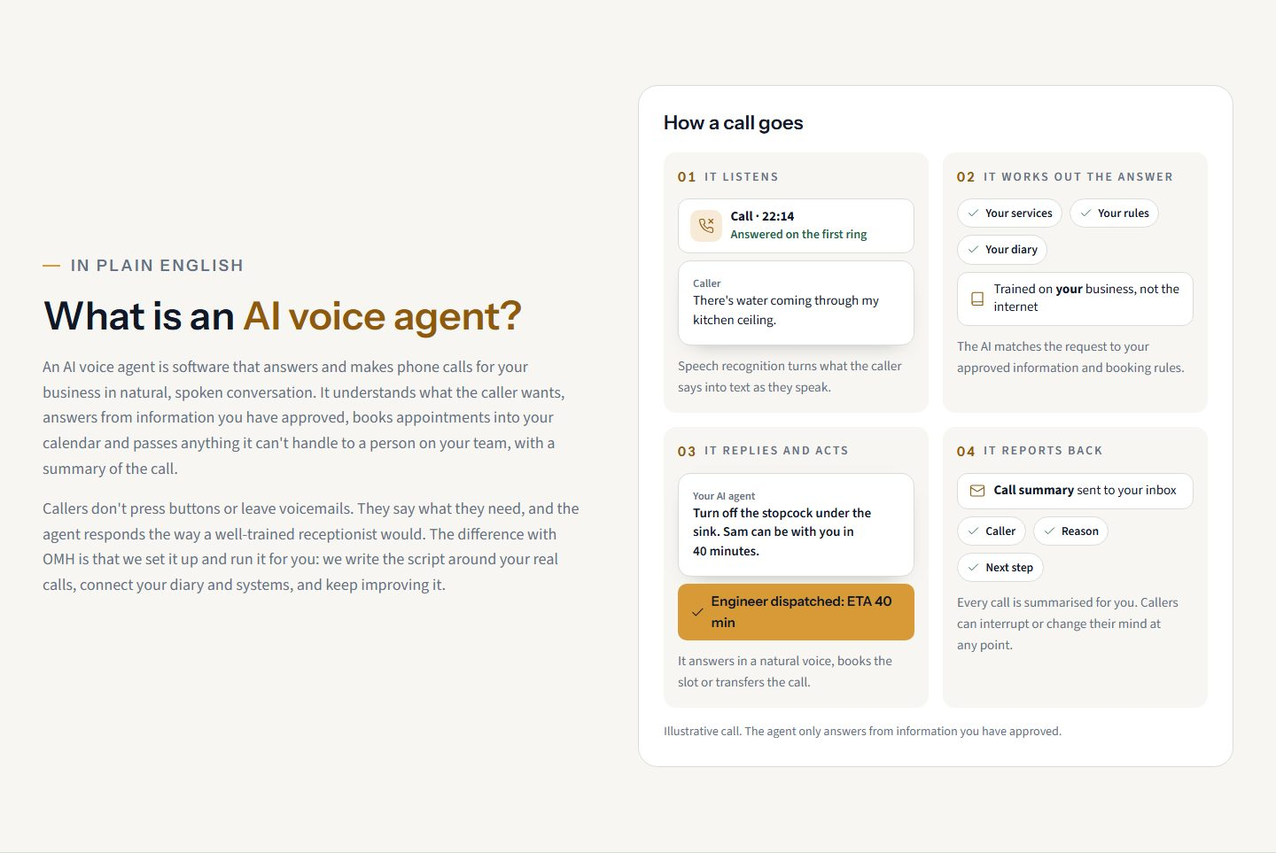
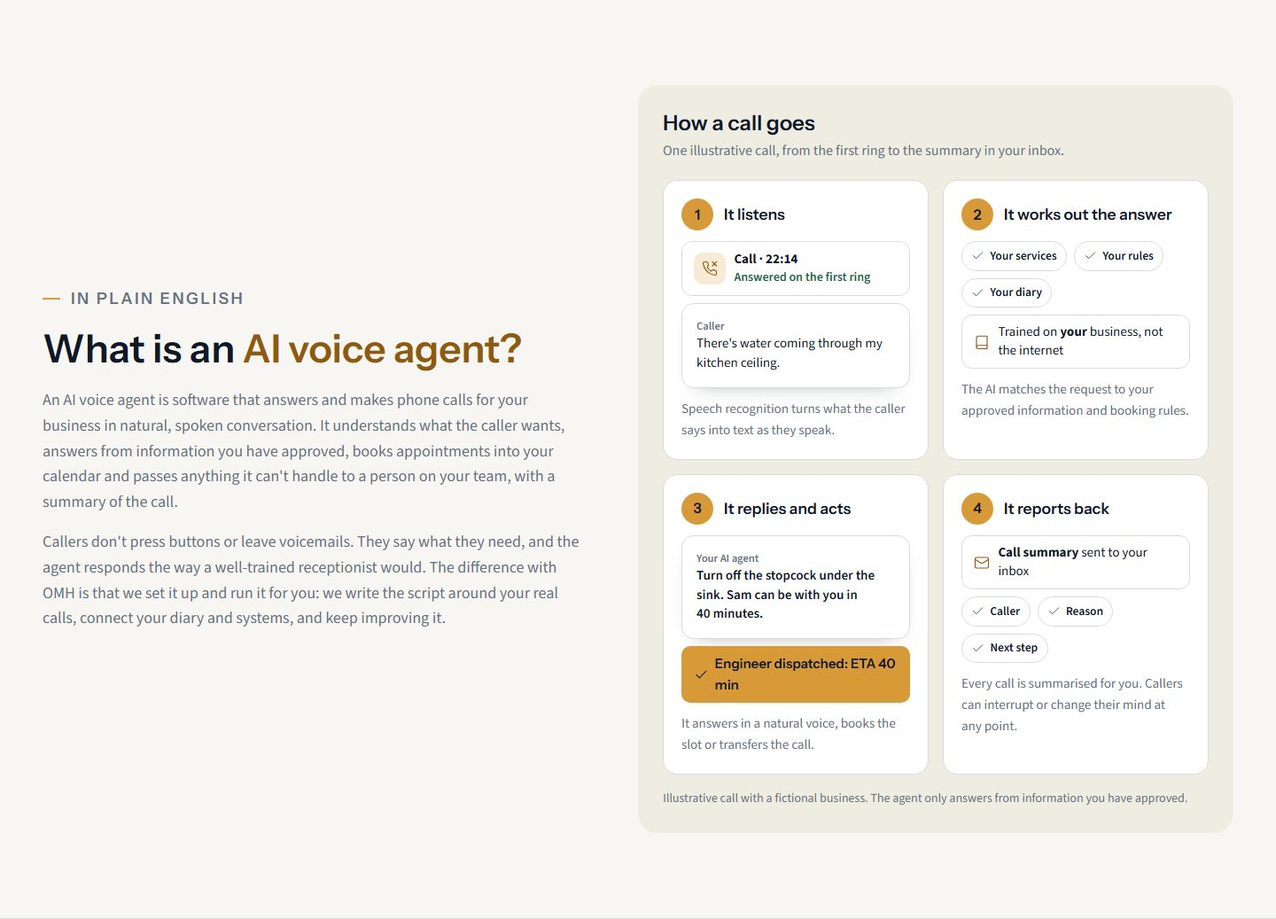
Restore the previous /ai-voice-agents hero and greeting band, tidy "What is"
The old hero (industry strip and video) leads again at the client's request,
with its buttons as "Book a 30-Minute Demo" and "Watch the demo". The
greeting-builder band is back after the capability cards. The "What is an
AI voice agent?" walkthrough uses numbered gold steps on a sand panel.

Changed region(s): [[0.5, 0.0935, 0.9688, 0.9034], [0.0312, 0.2804, 0.4375, 0.7165]]

diff --git a/lib/content/ai-voice-agents-markup.ts b/lib/content/ai-voice-agents-markup.ts
@@ -192,73 +192,6 @@ export const voiceAgentsMarkup = String.raw`
   <symbol id="i-timer" viewBox="0 0 24 24"><circle cx="12" cy="13" r="8"/><path d="M12 9v4l2.5 2M10 2h4"/></symbol>
 </svg>
 
-<section id="hero" data-component="Hero" class="relative overflow-hidden">
-  <div class="hero-glow" aria-hidden="true"></div>
-  <div class="container-omh relative grid items-center gap-10 pb-14 pt-10 lg:grid-cols-[minmax(0,1.1fr)_minmax(0,.9fr)] lg:gap-14 lg:pb-20 lg:pt-14" data-brand
-    data-brand-biz='[{"id":"law","label":"Law firm","name":"Hartwell Reeve Solicitors","city":"Birmingham","num":"0121 496 0147","agent":"Grace","kind":"firm&#39;s","initials":"HR","voice":"British English, calm and measured","never":"Gives legal advice","transfer":"Existing clients go to their named solicitor"},{"id":"dental","label":"Dental clinic","name":"Albion Square Dental","city":"Manchester","num":"0161 496 0123","agent":"Amy","kind":"practice&#39;s","initials":"AS","voice":"British English, warm and friendly","never":"Gives clinical advice","transfer":"Dental emergencies go to the on-call line"},{"id":"plumber","label":"Plumber","name":"Severn Plumbing","city":"Bristol","num":"0117 496 0135","agent":"Sam","kind":"team&#39;s","initials":"SP","voice":"British English, relaxed","never":"Quotes a price it has not been given","transfer":"Burst pipes go straight to the plumber on call"}]'>
-    <div>
-      <p class="eyebrow"><span class="eyebrow-mark" aria-hidden="true"><i></i><i></i><i></i></span>AI voice agents · 24/7</p>
-      <h1 class="!text-[clamp(2.375rem,1.81rem+2.43vw,3.75rem)] !leading-[1.06]">AI Voice Agent for UK Businesses: <span class="hl">Answer Every Call, Even at 2am</span></h1>
-      <p class="mt-5 text-muted">Our AI voice agent answers on the first ring, qualifies the caller and books them into your calendar, day or night. We build it around your business, test it with you and manage it every month, so you never have to learn the software.</p>
-      <div class="mt-7 flex flex-col gap-3 sm:flex-row sm:items-center">
-        ${primaryCta("hero_book_demo", "w-full sm:w-auto")}
-        <a href="#what-is" class="text-link justify-center" data-track="hero_see_how">See how a call goes${icon("arrow-down")}</a>
-      </div>
-      <p class="mt-5 text-[16px] text-muted">Live in as little as 3 working days · Keep your number · Billed monthly, 30 days' notice</p>
-    </div>
-
-    <div class="mx-auto w-full max-w-[400px]">
-      <div class="brand-phone relative rounded-[44px] border border-ink/10 bg-[#0b0f19] p-3 shadow-[0_50px_100px_-40px_rgb(0_0_0/0.6)]">
-        <div class="relative overflow-hidden rounded-[34px] bg-[#f7f6f2] px-5 pb-6 pt-4 text-[#101828]">
-          <div class="flex items-center justify-between text-[13px] font-semibold" aria-hidden="true"><span class="tnum">9:41</span><span class="h-[22px] w-[90px] rounded-full bg-[#0b0f19]"></span><span class="flex gap-1"><i class="block h-2.5 w-1 rounded-sm bg-[#101828]"></i><i class="block h-2.5 w-1 rounded-sm bg-[#101828]"></i><i class="block h-2.5 w-1 rounded-sm bg-[#101828]/40"></i></span></div>
-          <div class="mt-5 text-center">
-            <p class="text-[13.5px] font-semibold text-[#1c6446]"><span class="mr-1.5 inline-block h-2 w-2 rounded-full bg-[#1c6446] align-middle"></span>Call answered <span class="tnum" data-brand-timer>00:03</span></p>
-            <span class="mx-auto mt-3 grid h-[64px] w-[64px] place-items-center rounded-full bg-[#d79a37] font-display text-[22px] font-semibold text-[#101828]" aria-hidden="true" data-brand-initials>HR</span>
-            <p class="mt-3 font-display text-[20px] font-semibold leading-tight" data-brand-name>Hartwell Reeve Solicitors</p>
-            <p class="mt-0.5 text-[14.5px] text-[rgb(16_24_40/0.68)]"><span class="tnum" data-brand-num>0121 496 0147</span>, <span data-brand-city>Birmingham</span></p>
-          </div>
-          <div class="mt-4 rounded-[18px] bg-white p-4 shadow-[0_10px_30px_-20px_rgb(16_24_40/0.6)]">
-            <div class="flex items-center gap-3">
-              <span class="text-[13px] font-semibold text-[#8f5a0e]"><span data-brand-agent>Grace</span>, AI assistant</span>
-              <svg viewBox="0 0 168 40" class="brand-wave h-7 flex-1" aria-hidden="true" data-brand-wave>
-                <rect x="1" y="13" width="3" height="14" rx="1.5" style="--d:0s"/><rect x="7" y="3" width="3" height="34" rx="1.5" style="--d:0.09s"/><rect x="13" y="15.5" width="3" height="9" rx="1.5" style="--d:0.18s"/><rect x="19" y="6" width="3" height="28" rx="1.5" style="--d:0.27s"/><rect x="25" y="14.5" width="3" height="11" rx="1.5" style="--d:0.36s"/><rect x="31" y="12" width="3" height="16" rx="1.5" style="--d:0.45s"/><rect x="37" y="5.5" width="3" height="29" rx="1.5" style="--d:0.54s"/><rect x="43" y="8" width="3" height="24" rx="1.5" style="--d:0s"/><rect x="49" y="7" width="3" height="26" rx="1.5" style="--d:0.09s"/><rect x="55" y="10" width="3" height="20" rx="1.5" style="--d:0.18s"/><rect x="61" y="10.5" width="3" height="19" rx="1.5" style="--d:0.27s"/><rect x="67" y="15" width="3" height="10" rx="1.5" style="--d:0.36s"/><rect x="73" y="3.5" width="3" height="33" rx="1.5" style="--d:0.45s"/><rect x="79" y="16" width="3" height="8" rx="1.5" style="--d:0.54s"/><rect x="85" y="4" width="3" height="32" rx="1.5" style="--d:0s"/><rect x="91" y="16.5" width="3" height="7" rx="1.5" style="--d:0.09s"/><rect x="97" y="11.5" width="3" height="17" rx="1.5" style="--d:0.18s"/><rect x="103" y="7.5" width="3" height="25" rx="1.5" style="--d:0.27s"/><rect x="109" y="8" width="3" height="24" rx="1.5" style="--d:0.36s"/><rect x="115" y="7" width="3" height="26" rx="1.5" style="--d:0.45s"/><rect x="121" y="8" width="3" height="24" rx="1.5" style="--d:0.54s"/><rect x="127" y="11" width="3" height="18" rx="1.5" style="--d:0s"/><rect x="133" y="17" width="3" height="6" rx="1.5" style="--d:0.09s"/><rect x="139" y="5" width="3" height="30" rx="1.5" style="--d:0.18s"/><rect x="145" y="16.5" width="3" height="7" rx="1.5" style="--d:0.27s"/><rect x="151" y="3" width="3" height="34" rx="1.5" style="--d:0.36s"/><rect x="157" y="15.5" width="3" height="9" rx="1.5" style="--d:0.45s"/><rect x="163" y="10" width="3" height="20" rx="1.5" style="--d:0.54s"/>
-              </svg>
-            </div>
-            <p class="mt-3 min-h-[96px] rounded-[4px_14px_14px_14px] bg-[#efece2] px-3.5 py-3 text-[15.5px] leading-[1.45]" aria-hidden="true">&ldquo;<span data-brand-greeting>Good morning, Hartwell Reeve Solicitors. I'm Grace, the firm's AI assistant. How can I help you today?</span><span class="brand-caret" data-brand-caret></span>&rdquo;</p>
-            <p class="sr-only" aria-live="polite" data-brand-live></p>
-          </div>
-          <dl class="mt-3 space-y-1.5 text-[13.5px] leading-snug">
-            <div class="flex gap-2 rounded-[10px] bg-white/70 px-3 py-2"><dt class="font-semibold">Voice:</dt><dd data-brand-voice>British English, calm and measured</dd></div>
-            <div class="flex gap-2 rounded-[10px] bg-white/70 px-3 py-2"><dt class="font-semibold">Never:</dt><dd data-brand-never>Gives legal advice</dd></div>
-            <div class="flex gap-2 rounded-[10px] bg-white/70 px-3 py-2"><dt class="font-semibold">Transfers:</dt><dd data-brand-transfer>Existing clients go to their named solicitor</dd></div>
-          </dl>
-          <div class="mt-4 flex items-center justify-center gap-6">
-            <button type="button" class="grid h-12 w-12 place-items-center rounded-full bg-[#101828] text-[#f7f6f2] hover:bg-[#1a2437]" data-brand-replay data-track="branding_replay" aria-label="Replay the greeting">${icon("replay")}</button>
-            <span class="grid h-12 w-12 place-items-center rounded-full bg-[#a3352b] text-white" aria-hidden="true">${icon("phone", "rotate-[135deg]")}</span>
-          </div>
-        </div>
-      </div>
-      <div class="mt-5">
-        <p class="text-[15px] font-semibold">Try it: pick a business and a tone to hear the greeting change.</p>
-        <div class="mt-2 flex flex-wrap items-center gap-2">
-          <div role="radiogroup" aria-label="Business" class="flex flex-wrap gap-2" data-brand-group="biz">
-            <button type="button" role="radio" aria-checked="true" tabindex="0" class="brand-chip" data-brand-opt="law" data-track="branding_biz" data-track-name="Law firm">Law firm</button>
-            <button type="button" role="radio" aria-checked="false" tabindex="-1" class="brand-chip" data-brand-opt="dental" data-track="branding_biz" data-track-name="Dental clinic">Dental clinic</button>
-            <button type="button" role="radio" aria-checked="false" tabindex="-1" class="brand-chip" data-brand-opt="plumber" data-track="branding_biz" data-track-name="Plumber">Plumber</button>
-          </div>
-          <span class="hidden h-6 w-px bg-line sm:block" aria-hidden="true"></span>
-          <div role="radiogroup" aria-label="Tone" class="flex flex-wrap gap-2" data-brand-group="tone">
-            <button type="button" role="radio" aria-checked="true" tabindex="0" class="brand-chip" data-brand-opt="warm" data-track="branding_tone" data-track-name="Warm">Warm</button>
-            <button type="button" role="radio" aria-checked="false" tabindex="-1" class="brand-chip" data-brand-opt="brisk" data-track="branding_tone" data-track-name="Brisk">Brisk</button>
-            <button type="button" role="radio" aria-checked="false" tabindex="-1" class="brand-chip" data-brand-opt="formal" data-track="branding_tone" data-track-name="Formal">Formal</button>
-          </div>
-        </div>
-        <p class="mt-2 text-[14px] text-muted">Illustrative example. The businesses shown are fictional.</p>
-      </div>
-    </div>
-  </div>
-</section>
-
 <section id="why" data-component="Problem" class="border-y border-line bg-surface">
   <div class="container-omh py-14 lg:py-20">
     <p class="eyebrow"><span class="eyebrow-mark" aria-hidden="true"><i></i><i></i><i></i></span>Why it matters</p>
@@ -294,27 +227,28 @@ export const voiceAgentsMarkup = String.raw`
       <p class="mt-5 text-muted">An AI voice agent is software that answers and makes phone calls for your business in natural, spoken conversation. It understands what the caller wants, answers from information you have approved, books appointments into your calendar and passes anything it can't handle to a person on your team, with a summary of the call.</p>
       <p class="mt-4 text-muted">Callers don't press buttons or leave voicemails. They say what they need, and the agent responds the way a well-trained receptionist would. The difference with OMH is that we set it up and run it for you: we write the script around your real calls, connect your diary and systems, and keep improving it.</p>
     </div>
-    <div class="rounded-[22px] border border-line bg-surface p-5 sm:p-7">
-      <h3 class="!text-[22px]">How a call goes</h3>
+    <div class="rounded-[22px] bg-sand p-5 sm:p-7">
+      <h3 class="!text-[24px]">How a call goes</h3>
+      <p class="mt-1 text-[16px] text-muted">One illustrative call, from the first ring to the summary in your inbox.</p>
       <ol class="mt-5 grid gap-4 sm:grid-cols-2">
-        <li class="rounded-[14px] bg-paper p-4"><p class="flex items-center gap-2 text-[14px] font-semibold uppercase tracking-[0.14em] text-muted"><span class="num text-[15px]">01</span>It listens</p>
+        <li class="flex flex-col rounded-[16px] border border-line bg-surface p-5"><p class="flex items-center gap-3 font-display text-[17.5px] font-semibold"><span class="grid h-9 w-9 shrink-0 place-items-center rounded-full bg-gold text-[16px] text-navy" aria-hidden="true">1</span>It listens</p>
           <div class="mini mt-3"><span class="icon-tile">${icon("phone-missed")}</span><span class="min-w-0"><b class="block">Call · 22:14</b><span class="text-[14px] font-semibold text-ok">Answered on the first ring</span></span></div>
           <div class="chat mt-2"><p><span class="who">Caller</span>There's water coming through my kitchen ceiling.</p></div>
           <p class="mt-3 text-[15px] text-muted">Speech recognition turns what the caller says into text as they speak.</p></li>
-        <li class="rounded-[14px] bg-paper p-4"><p class="flex items-center gap-2 text-[14px] font-semibold uppercase tracking-[0.14em] text-muted"><span class="num text-[15px]">02</span>It works out the answer</p>
+        <li class="flex flex-col rounded-[16px] border border-line bg-surface p-5"><p class="flex items-center gap-3 font-display text-[17.5px] font-semibold"><span class="grid h-9 w-9 shrink-0 place-items-center rounded-full bg-gold text-[16px] text-navy" aria-hidden="true">2</span>It works out the answer</p>
           <div class="mt-3 flex flex-wrap gap-2"><span class="mini-chip">${icon("check", "text-ok")}Your services</span><span class="mini-chip">${icon("check", "text-ok")}Your rules</span><span class="mini-chip">${icon("check", "text-ok")}Your diary</span></div>
           <div class="mini mt-2">${icon("book", "text-hl")}<span>Trained on <b>your</b> business, not the internet</span></div>
           <p class="mt-3 text-[15px] text-muted">The AI matches the request to your approved information and booking rules.</p></li>
-        <li class="rounded-[14px] bg-paper p-4"><p class="flex items-center gap-2 text-[14px] font-semibold uppercase tracking-[0.14em] text-muted"><span class="num text-[15px]">03</span>It replies and acts</p>
+        <li class="flex flex-col rounded-[16px] border border-line bg-surface p-5"><p class="flex items-center gap-3 font-display text-[17.5px] font-semibold"><span class="grid h-9 w-9 shrink-0 place-items-center rounded-full bg-gold text-[16px] text-navy" aria-hidden="true">3</span>It replies and acts</p>
           <div class="chat mt-3"><p class="ai"><span class="who">Your AI agent</span>Turn off the stopcock under the sink. Sam can be with you in 40 minutes.</p></div>
           <span class="booked mt-2">${icon("check")}Engineer dispatched: ETA 40 min</span>
           <p class="mt-3 text-[15px] text-muted">It answers in a natural voice, books the slot or transfers the call.</p></li>
-        <li class="rounded-[14px] bg-paper p-4"><p class="flex items-center gap-2 text-[14px] font-semibold uppercase tracking-[0.14em] text-muted"><span class="num text-[15px]">04</span>It reports back</p>
+        <li class="flex flex-col rounded-[16px] border border-line bg-surface p-5"><p class="flex items-center gap-3 font-display text-[17.5px] font-semibold"><span class="grid h-9 w-9 shrink-0 place-items-center rounded-full bg-gold text-[16px] text-navy" aria-hidden="true">4</span>It reports back</p>
           <div class="mini mt-3">${icon("mail", "text-hl")}<span><b>Call summary</b> sent to your inbox</span></div>
           <div class="mt-2 flex flex-wrap gap-2"><span class="mini-chip">${icon("check", "text-ok")}Caller</span><span class="mini-chip">${icon("check", "text-ok")}Reason</span><span class="mini-chip">${icon("check", "text-ok")}Next step</span></div>
           <p class="mt-3 text-[15px] text-muted">Every call is summarised for you. Callers can interrupt or change their mind at any point.</p></li>
       </ol>
-      <p class="mt-4 text-[14px] text-muted">Illustrative call. The agent only answers from information you have approved.</p>
+      <p class="mt-4 text-[14px] text-muted">Illustrative call with a fictional business. The agent only answers from information you have approved.</p>
     </div>
   </div>
 </section>

diff --git a/lib/content/ai-voice-agents-landing-v4.ts b/lib/content/ai-voice-agents-landing-v4.ts
@@ -1,6 +1,7 @@
+// FROZEN BACKUP (oldv2, 20 Oct 2026). Do not edit. Snapshot of /ai-voice-agents before the CRO rebuild; also tagged `oldv2` in git.
 // Generated by scripts/port-landing-v4.mjs from ai-voice-agents-v4-landing-page.html, then edited by hand for the
 // SEO brief (19 Oct 2026). Don't regenerate it: the port script would undo the brief's copy.
-// Only the "How it works" and "Local cover" sections remain (20 Oct 2026): app/ai-voice-agents/page.tsx places them
+// The hero, "How it works" and "Local cover" sections (20 Oct 2026): app/ai-voice-agents/page.tsx places them
 // between the rebuilt sections. Styles in landing-v4.css (.v4l).
 export const landingV4Markup = String.raw`
 <svg width="0" height="0" style="position:absolute" aria-hidden="true" focusable="false">
@@ -49,6 +50,112 @@ export const landingV4Markup = String.raw`
     <symbol id="v4-i-book" viewBox="0 0 24 24"><path d="M4 19.5A2.5 2.5 0 0 1 6.5 17H20V3H6.5A2.5 2.5 0 0 0 4 5.5z"/><path d="M4 19.5A2.5 2.5 0 0 0 6.5 22H20v-5"/></symbol>
   </defs>
 </svg>
+
+<section id="top" class="hero4" aria-labelledby="hero-title">
+  <div class="container-omh pt-12 text-center md:pt-16 lg:pt-20">
+    <span class="badge"><span class="voice-mark" aria-hidden="true"><i></i><i></i><i></i></span>AI voice agents · 24/7</span>
+    <h1 class="h1-c mx-auto mt-6" id="hero-title">AI Voice Agent for UK Businesses: <span class="hl">Answer Every Call, Even at 2am</span></h1>
+    <p class="lead mx-auto mt-6">Our AI voice agent answers on the first ring, qualifies the caller and books them into your calendar, day or night. We build it around your business, test it with you and manage it every month, so you never have to learn the software.</p>
+    <div class="mt-8 flex flex-col items-center justify-center gap-3 sm:flex-row" id="hero-form">
+      <a href="#book-demo-form" class="btn btn-primary w-full sm:w-auto" data-track="hero_book_demo">Book a 30-Minute Demo</a>
+      <a href="#hero-video" class="btn btn-secondary w-full sm:w-auto" data-track="hero_watch_demo">Watch the demo</a>
+    </div>
+    <p class="t-small mt-4 text-muted">Live in as little as 3 working days · Keep your number · Billed monthly, 30 days' notice</p>
+  </div>
+
+  <!-- Industry strip: loops slowly, pauses on hover or focus. Each tile jumps to its use-case card. -->
+  <div class="mt-12 md:mt-14" id="industries-strip">
+    <div class="container-omh flex items-center justify-center gap-3">
+      <p class="t-small font-display font-semibold text-muted" id="strip-title">Built for businesses that live on the phone</p>
+      <button type="button" class="mq-pause" data-marquee-toggle="strip" data-what="industry list" aria-pressed="false" aria-label="Pause the moving industry list"><svg class="icon icon-fill i-pause size-3.5" aria-hidden="true"><use href="#v4-i-pause"/></svg><svg class="icon icon-fill i-play size-3.5" aria-hidden="true"><use href="#v4-i-play"/></svg></button>
+    </div>
+    <div class="mx-auto mt-4 max-w-[1440px]">
+      <div class="marquee" id="strip" data-marquee style="--dur: 38s">
+        <div class="marquee-track">
+          <ul aria-labelledby="strip-title">
+          <li><a class="ind" href="#uc-estate" data-ind="estate"><span class="ind-ico" aria-hidden="true"><svg class="icon"><use href="#v4-i-home"/></svg></span><b>Estate &amp; Letting</b><small>Agents</small></a></li>
+          <li><a class="ind" href="#uc-dental" data-ind="dental"><span class="ind-ico" aria-hidden="true"><svg class="icon"><use href="#v4-i-tooth"/></svg></span><b>Dental</b><small>Clinics</small></a></li>
+          <li><a class="ind" href="#uc-clinics" data-ind="clinics"><span class="ind-ico" aria-hidden="true"><svg class="icon"><use href="#v4-i-medical"/></svg></span><b>Clinics &amp;</b><small>Healthcare</small></a></li>
+          <li><a class="ind" href="#uc-plumbers" data-ind="plumbers"><span class="ind-ico" aria-hidden="true"><svg class="icon"><use href="#v4-i-drop"/></svg></span><b>Plumbers</b><small>&nbsp;</small></a></li>
+          <li><a class="ind" href="#uc-hvac" data-ind="hvac"><span class="ind-ico" aria-hidden="true"><svg class="icon"><use href="#v4-i-flame"/></svg></span><b>Heating</b><small>&amp; HVAC</small></a></li>
+          <li><a class="ind" href="#uc-builders" data-ind="builders"><span class="ind-ico" aria-hidden="true"><svg class="icon"><use href="#v4-i-hardhat"/></svg></span><b>Contractors</b><small>&amp; Builders</small></a></li>
+          <li><a class="ind" href="#uc-law" data-ind="law"><span class="ind-ico" aria-hidden="true"><svg class="icon"><use href="#v4-i-scale"/></svg></span><b>Law</b><small>Firms</small></a></li>
+          <li><a class="ind" href="#uc-cars" data-ind="cars"><span class="ind-ico" aria-hidden="true"><svg class="icon"><use href="#v4-i-car"/></svg></span><b>Car</b><small>Dealerships</small></a></li>
+          </ul>
+        </div>
+      </div>
+    </div>
+  </div>
+
+  <div class="container-omh pb-16 pt-10 md:pt-12 lg:pb-24">
+    <div class="hero-video" id="hero-video">
+      <div class="video-frame" data-video data-youtube-id="M7lc1UVf-VE" data-video-title="AI voice agent answering a call and booking a property viewing">
+        <a class="video-poster on-band has-scene" href="https://www.youtube.com/watch?v=M7lc1UVf-VE" target="_blank" rel="noopener" data-video-play aria-label="Play video: AI voice agent answering a call and booking a property viewing (1:32)">
+          <svg class="vp-scene" viewBox="0 0 1600 900" preserveAspectRatio="xMidYMid slice" aria-hidden="true" focusable="false">
+            <defs>
+              <linearGradient id="vs-sky" x1="0" y1="0" x2="0" y2="1">
+                <stop offset="0" stop-color="#0b1426"/><stop offset=".5" stop-color="#1b2540"/><stop offset=".78" stop-color="#46384a"/><stop offset="1" stop-color="#b9763f"/>
+              </linearGradient>
+              <linearGradient id="vs-win" x1="0" y1="0" x2="0" y2="1"><stop offset="0" stop-color="#ffe2a6"/><stop offset="1" stop-color="#e9a54e"/></linearGradient>
+              <radialGradient id="vs-spill" cx=".5" cy=".5" r=".5"><stop offset="0" stop-color="#f1b866" stop-opacity=".55"/><stop offset="1" stop-color="#f1b866" stop-opacity="0"/></radialGradient>
+              <radialGradient id="vs-moon" cx=".5" cy=".5" r=".5"><stop offset=".3" stop-color="#f6e7c8" stop-opacity=".35"/><stop offset="1" stop-color="#f6e7c8" stop-opacity="0"/></radialGradient>
+              <filter id="vs-glow" x="-30%" y="-30%" width="160%" height="160%"><feGaussianBlur stdDeviation="14"/></filter>
+            </defs>
+            <rect width="1600" height="720" fill="url(#vs-sky)"/>
+            <g fill="#fff"><circle cx="946" cy="301" r="1.8" opacity="0.5"/><circle cx="1060" cy="315" r="1" opacity="0.35"/><circle cx="1068" cy="258" r="1" opacity="0.35"/><circle cx="934" cy="170" r="1" opacity="0.35"/><circle cx="1123" cy="36" r="1.8" opacity="0.5"/><circle cx="1359" cy="330" r="1" opacity="0.7"/><circle cx="50" cy="285" r="1" opacity="0.35"/><circle cx="93" cy="112" r="1" opacity="0.7"/><circle cx="81" cy="252" r="1.4" opacity="0.5"/><circle cx="1230" cy="115" r="1" opacity="0.7"/><circle cx="622" cy="270" r="1" opacity="0.7"/><circle cx="194" cy="249" r="1.4" opacity="0.5"/><circle cx="1148" cy="57" r="1.4" opacity="0.5"/><circle cx="1572" cy="132" r="1.4" opacity="0.35"/><circle cx="163" cy="303" r="1" opacity="0.5"/><circle cx="240" cy="163" r="1.8" opacity="0.35"/><circle cx="54" cy="15" r="1" opacity="0.35"/><circle cx="127" cy="255" r="1.8" opacity="0.7"/><circle cx="833" cy="229" r="1" opacity="0.7"/><circle cx="1309" cy="116" r="1.4" opacity="0.5"/><circle cx="198" cy="174" r="1.4" opacity="0.35"/><circle cx="859" cy="75" r="1" opacity="0.35"/><circle cx="1467" cy="66" r="1" opacity="0.35"/><circle cx="972" cy="264" r="1" opacity="0.7"/><circle cx="1165" cy="111" r="1.8" opacity="0.7"/><circle cx="410" cy="82" r="1.8" opacity="0.7"/><circle cx="805" cy="74" r="1.8" opacity="0.5"/><circle cx="455" cy="15" r="1.4" opacity="0.7"/><circle cx="642" cy="25" r="1" opacity="0.35"/><circle cx="827" cy="323" r="1" opacity="0.35"/><circle cx="319" cy="124" r="1.8" opacity="0.5"/><circle cx="39" cy="327" r="1.4" opacity="0.5"/><circle cx="810" cy="52" r="1" opacity="0.35"/><circle cx="447" cy="313" r="1" opacity="0.35"/><circle cx="1251" cy="203" r="1.4" opacity="0.7"/><circle cx="948" cy="80" r="1.8" opacity="0.7"/><circle cx="297" cy="212" r="1" opacity="0.7"/><circle cx="335" cy="174" r="1" opacity="0.7"/><circle cx="530" cy="112" r="1" opacity="0.7"/><circle cx="1308" cy="298" r="1" opacity="0.7"/><circle cx="815" cy="262" r="1" opacity="0.5"/><circle cx="117" cy="68" r="1" opacity="0.35"/><circle cx="1069" cy="145" r="1" opacity="0.7"/><circle cx="1462" cy="215" r="1.4" opacity="0.5"/><circle cx="1241" cy="266" r="1.4" opacity="0.7"/><circle cx="379" cy="50" r="1" opacity="0.35"/><circle cx="1001" cy="301" r="1" opacity="0.5"/><circle cx="454" cy="119" r="1" opacity="0.35"/><circle cx="571" cy="225" r="1.8" opacity="0.35"/><circle cx="143" cy="38" r="1" opacity="0.5"/><circle cx="775" cy="286" r="1" opacity="0.35"/><circle cx="761" cy="85" r="1.8" opacity="0.5"/><circle cx="1365" cy="282" r="1" opacity="0.7"/><circle cx="91" cy="24" r="1.8" opacity="0.5"/><circle cx="1455" cy="174" r="1" opacity="0.35"/></g>
+            <circle cx="430" cy="165" r="110" fill="url(#vs-moon)"/>
+            <circle cx="430" cy="165" r="30" fill="#f6e7c8"/>
+            <path d="M0 610 C220 560 380 585 560 548 S920 520 1100 560 1420 520 1600 548 V720 H0z" fill="#202a42"/>
+            <path d="M0 650 C260 610 460 640 700 615 S1150 600 1600 628 V720 H0z" fill="#161f33"/>
+            <rect y="700" width="1600" height="200" fill="#0d1422"/>
+            <ellipse cx="1190" cy="712" rx="420" ry="46" fill="url(#vs-spill)"/>
+            <path d="M1185 700 H1240 L1330 900 H1090z" fill="#262b36"/>
+            <g filter="url(#vs-glow)" opacity=".75">
+              <rect x="960" y="545" width="200" height="135" fill="#f3b55e"/><rect x="1260" y="545" width="160" height="135" fill="#f3b55e"/>
+              <rect x="1035" y="420" width="150" height="80" fill="#f3b55e"/><rect x="1205" y="420" width="160" height="80" fill="#f3b55e"/>
+            </g>
+            <rect x="930" y="520" width="520" height="182" fill="#172033"/>
+            <rect x="1010" y="400" width="380" height="122" fill="#1d2842"/>
+            <rect x="992" y="390" width="416" height="12" fill="#0b111d"/>
+            <rect x="912" y="510" width="556" height="12" fill="#0b111d"/>
+            <g fill="url(#vs-win)">
+              <rect x="960" y="545" width="200" height="135"/><rect x="1260" y="545" width="160" height="135"/>
+              <rect x="1035" y="420" width="150" height="80"/><rect x="1205" y="420" width="160" height="80"/>
+              <rect x="1186" y="582" width="48" height="98" opacity=".7"/>
+            </g>
+            <g stroke="#172033" stroke-width="5">
+              <path d="M1027 545 V680 M1093 545 V680 M1340 545 V680 M1110 420 V500 M1285 420 V500"/>
+            </g>
+            <g fill="#8a5a26" opacity=".55"><circle cx="1060" cy="575" r="9"/><rect x="1058" y="545" width="3" height="22"/><rect x="990" y="640" width="80" height="40" rx="6"/><rect x="1290" y="635" width="95" height="45" rx="6"/></g>
+            <rect x="1395" y="430" width="10" height="250" fill="#0b111d"/>
+            <g fill="#0a101c">
+              <ellipse cx="190" cy="640" rx="120" ry="135"/><ellipse cx="320" cy="660" rx="95" ry="105"/><ellipse cx="80" cy="665" rx="90" ry="95"/>
+              <ellipse cx="1530" cy="620" rx="95" ry="150"/><rect x="1526" y="640" width="8" height="70"/>
+              <rect x="186" y="650" width="8" height="60"/><rect x="318" y="680" width="8" height="30"/>
+            </g>
+            <g>
+              <rect x="868" y="618" width="6" height="88" fill="#5a4a38"/>
+              <rect x="812" y="596" width="118" height="54" rx="5" fill="#d79a37"/>
+              <text x="871" y="619" text-anchor="middle" font-family="Instrument Sans, sans-serif" font-size="15" font-weight="600" letter-spacing="1.5" fill="#101828">VIEWING DAY</text>
+              <text x="871" y="640" text-anchor="middle" font-family="Instrument Sans, sans-serif" font-size="13" font-weight="600" fill="#101828">SAT 10AM</text>
+            </g>
+          </svg>
+          <span class="vp-notif" aria-hidden="true"><span class="vp-notif-ico"><svg class="icon"><use href="#v4-i-check"/></svg></span><span><b>Appointment booked: Sat 10:00</b><small>New caller · Qualified · Added to your CRM</small></span></span>
+          <span class="vp-top" aria-hidden="true">
+            <span class="vp-brand"><span class="voice-mark"><i></i><i></i><i></i></span>Online Marketing Help</span>
+            <span class="vp-chip"><svg class="icon"><use href="#v4-i-volume"/></svg>Sound on</span>
+          </span>
+          <span class="vp-play" aria-hidden="true"><svg class="icon icon-fill"><use href="#v4-i-play"/></svg></span>
+          <span class="vp-bottom" aria-hidden="true">
+            <span class="vp-title">Watch it answer, qualify and book a caller</span>
+            <span class="vp-time tnum">1:32</span>
+          </span>
+        </a>
+      </div>
+      <p class="t-small mt-4 text-center text-muted">Watch our AI voice agent answer a call, qualify the caller and book a viewing (1:32).</p>
+    </div>
+  </div>
+
 
 <section class="section" id="cities" aria-labelledby="city-title">
   <div class="container-omh">
@@ -130,7 +237,7 @@ export const landingV4Markup = String.raw`
       <p class="t-small text-muted">Somewhere else? We cover towns and cities across the UK. <a href="#book-demo-form" class="link link-tap text-[15px]">Ask us about your area</a></p>
     </div>
   </div>
-</section>
+
 
 <section id="how" class="section border-y border-line bg-surface" aria-labelledby="how-title">
   <div class="container-omh">
@@ -198,5 +305,4 @@ export const landingV4Markup = String.raw`
       </dl>
     </div>
   </div>
-</section>
 `;

diff --git a/lib/content/ai-voice-agents-legacy.ts b/lib/content/ai-voice-agents-legacy.ts
@@ -1,5 +1,5 @@
 // Sections of /ai-voice-agents kept from the previous page on the client's instruction (20 Oct 2026, after the CRO
-// rebuild): Industries, Client feedback and its video dialog, Why choose OMH, Is it the right fit (with the fit
+// rebuild): Industries, Client feedback and its video dialog, Why choose OMH, the greeting builder, Is it the right fit (with the fit
 // checker), the ROI calculator, the comparison table, the FAQ layout with search and filters, and the mobile
 // sticky bar. Markup is verbatim from lib/content/ai-voice-agents-oldv2/markup.ts except that the demo CTAs now
 // point at #book-demo-form. page.tsx places these between the rebuilt sections in ai-voice-agents-markup.ts.
@@ -532,6 +532,73 @@ export const legacyMarkup = String.raw`
       </article>
     </div>
     <p class="mt-4 text-[14.5px] text-muted">Panels show illustrative examples with fictional businesses.</p>
+  </div>
+</section>
+
+<section id="branding" data-component="Branding" class="on-band relative overflow-hidden bg-band text-band-ink">
+  <div class="pointer-events-none absolute right-[-10%] top-1/2 h-[620px] w-[620px] -translate-y-1/2 rounded-full bg-gold/15 blur-3xl" aria-hidden="true"></div>
+  <div class="container-omh relative grid items-center gap-14 py-20 lg:grid-cols-[minmax(0,1.35fr)_minmax(0,.65fr)] lg:gap-16 lg:py-28" data-brand
+    data-brand-biz='[{"id":"law","label":"Law firm","name":"Hartwell Reeve Solicitors","city":"Birmingham","num":"0121 496 0147","agent":"Grace","kind":"firm&#39;s","initials":"HR","voice":"British English, calm and measured","never":"Gives legal advice","transfer":"Existing clients go to their named solicitor"},{"id":"dental","label":"Dental clinic","name":"Albion Square Dental","city":"Manchester","num":"0161 496 0123","agent":"Amy","kind":"practice&#39;s","initials":"AS","voice":"British English, warm and friendly","never":"Gives clinical advice","transfer":"Dental emergencies go to the on-call line"},{"id":"plumber","label":"Plumber","name":"Severn Plumbing","city":"Bristol","num":"0117 496 0135","agent":"Sam","kind":"team&#39;s","initials":"SP","voice":"British English, relaxed","never":"Quotes a price it has not been given","transfer":"Burst pipes go straight to the plumber on call"}]'>
+    <div>
+      <div class="rounded-[14px] border border-band-line bg-band-surface p-5 sm:p-6">
+        <h3 class="!text-[clamp(22px,20px+.6vw,26px)]">Try it: build a greeting</h3>
+        <p class="mt-1 text-[16px] text-band-muted">Pick a business and a tone. The phone shows what callers would hear.</p>
+        <p class="mt-4 text-[14.5px] font-semibold text-band-muted" id="brand-biz-label">Business</p>
+        <div class="mt-2">
+          <div role="radiogroup" aria-label="Business" class="flex flex-wrap gap-2" data-brand-group="biz">
+            <button type="button" role="radio" aria-checked="true" tabindex="0" class="min-h-[44px] rounded-full border border-[rgb(247_246_242/.35)] px-4 text-[15.5px] font-semibold text-band-ink aria-checked:border-gold aria-checked:bg-gold aria-checked:text-navy" data-brand-opt="law" data-track="branding_biz" data-track-name="Law firm">Law firm</button>
+            <button type="button" role="radio" aria-checked="false" tabindex="-1" class="min-h-[44px] rounded-full border border-[rgb(247_246_242/.35)] px-4 text-[15.5px] font-semibold text-band-ink aria-checked:border-gold aria-checked:bg-gold aria-checked:text-navy" data-brand-opt="dental" data-track="branding_biz" data-track-name="Dental clinic">Dental clinic</button>
+            <button type="button" role="radio" aria-checked="false" tabindex="-1" class="min-h-[44px] rounded-full border border-[rgb(247_246_242/.35)] px-4 text-[15.5px] font-semibold text-band-ink aria-checked:border-gold aria-checked:bg-gold aria-checked:text-navy" data-brand-opt="plumber" data-track="branding_biz" data-track-name="Plumber">Plumber</button>
+          </div>
+        </div>
+        <p class="mt-4 text-[14.5px] font-semibold text-band-muted">Tone</p>
+        <div class="mt-2">
+          <div role="radiogroup" aria-label="Tone" class="flex flex-wrap gap-2" data-brand-group="tone">
+            <button type="button" role="radio" aria-checked="true" tabindex="0" class="min-h-[44px] rounded-full border border-[rgb(247_246_242/.35)] px-4 text-[15.5px] font-semibold text-band-ink aria-checked:border-gold aria-checked:bg-gold aria-checked:text-navy" data-brand-opt="warm" data-track="branding_tone" data-track-name="Warm">Warm</button>
+            <button type="button" role="radio" aria-checked="false" tabindex="-1" class="min-h-[44px] rounded-full border border-[rgb(247_246_242/.35)] px-4 text-[15.5px] font-semibold text-band-ink aria-checked:border-gold aria-checked:bg-gold aria-checked:text-navy" data-brand-opt="brisk" data-track="branding_tone" data-track-name="Brisk">Brisk</button>
+            <button type="button" role="radio" aria-checked="false" tabindex="-1" class="min-h-[44px] rounded-full border border-[rgb(247_246_242/.35)] px-4 text-[15.5px] font-semibold text-band-ink aria-checked:border-gold aria-checked:bg-gold aria-checked:text-navy" data-brand-opt="formal" data-track="branding_tone" data-track-name="Formal">Formal</button>
+          </div>
+        </div>
+      </div>
+    </div>
+
+        <div class="relative mx-auto w-full max-w-[380px] [perspective:1400px]">
+      <div class="brand-phone relative rounded-[44px] border border-[rgb(247_246_242/.18)] bg-[#0b0f19] p-3 shadow-[0_50px_100px_-40px_rgb(0_0_0/0.8)] lg:[transform:rotateY(-10deg)_rotateX(4deg)]">
+        <div class="relative overflow-hidden rounded-[34px] bg-[#f7f6f2] px-5 pb-6 pt-4 text-[#101828]">
+          <div class="flex items-center justify-between text-[13px] font-semibold" aria-hidden="true"><span class="tnum">9:41</span><span class="h-[22px] w-[90px] rounded-full bg-[#0b0f19]"></span><span class="flex gap-1"><i class="block h-2.5 w-1 rounded-sm bg-[#101828]"></i><i class="block h-2.5 w-1 rounded-sm bg-[#101828]"></i><i class="block h-2.5 w-1 rounded-sm bg-[#101828]/40"></i></span></div>
+
+          <div class="mt-6 text-center">
+            <p class="text-[13.5px] font-semibold text-[#1c6446]"><span class="mr-1.5 inline-block h-2 w-2 rounded-full bg-[#1c6446] align-middle"></span>Call answered <span class="tnum" data-brand-timer>00:03</span></p>
+            <span class="mx-auto mt-4 grid h-[72px] w-[72px] place-items-center rounded-full bg-[#d79a37] font-display text-[24px] font-semibold text-[#101828]" aria-hidden="true" data-brand-initials>HR</span>
+            <p class="mt-3 font-display text-[21px] font-semibold leading-tight" data-brand-name>Hartwell Reeve Solicitors</p>
+            <p class="mt-0.5 text-[14.5px] text-[rgb(16_24_40/0.68)]"><span class="tnum" data-brand-num>0121 496 0147</span>, <span data-brand-city>Birmingham</span></p>
+          </div>
+
+          <div class="mt-5 rounded-[18px] bg-white p-4 shadow-[0_10px_30px_-20px_rgb(16_24_40/0.6)]">
+            <div class="flex items-center gap-3">
+              <span class="text-[13px] font-semibold text-[#8f5a0e]"><span data-brand-agent>Grace</span>, AI assistant</span>
+              <svg viewBox="0 0 168 40" class="brand-wave h-7 flex-1" aria-hidden="true" data-brand-wave>
+                <rect x="1" y="13" width="3" height="14" rx="1.5" style="--d:0s"/><rect x="7" y="3" width="3" height="34" rx="1.5" style="--d:0.09s"/><rect x="13" y="15.5" width="3" height="9" rx="1.5" style="--d:0.18s"/><rect x="19" y="6" width="3" height="28" rx="1.5" style="--d:0.27s"/><rect x="25" y="14.5" width="3" height="11" rx="1.5" style="--d:0.36s"/><rect x="31" y="12" width="3" height="16" rx="1.5" style="--d:0.44999999999999996s"/><rect x="37" y="5.5" width="3" height="29" rx="1.5" style="--d:0.54s"/><rect x="43" y="8" width="3" height="24" rx="1.5" style="--d:0s"/><rect x="49" y="7" width="3" height="26" rx="1.5" style="--d:0.09s"/><rect x="55" y="10" width="3" height="20" rx="1.5" style="--d:0.18s"/><rect x="61" y="10.5" width="3" height="19" rx="1.5" style="--d:0.27s"/><rect x="67" y="15" width="3" height="10" rx="1.5" style="--d:0.36s"/><rect x="73" y="3.5" width="3" height="33" rx="1.5" style="--d:0.44999999999999996s"/><rect x="79" y="16" width="3" height="8" rx="1.5" style="--d:0.54s"/><rect x="85" y="4" width="3" height="32" rx="1.5" style="--d:0s"/><rect x="91" y="16.5" width="3" height="7" rx="1.5" style="--d:0.09s"/><rect x="97" y="11.5" width="3" height="17" rx="1.5" style="--d:0.18s"/><rect x="103" y="7.5" width="3" height="25" rx="1.5" style="--d:0.27s"/><rect x="109" y="8" width="3" height="24" rx="1.5" style="--d:0.36s"/><rect x="115" y="7" width="3" height="26" rx="1.5" style="--d:0.44999999999999996s"/><rect x="121" y="8" width="3" height="24" rx="1.5" style="--d:0.54s"/><rect x="127" y="11" width="3" height="18" rx="1.5" style="--d:0s"/><rect x="133" y="17" width="3" height="6" rx="1.5" style="--d:0.09s"/><rect x="139" y="5" width="3" height="30" rx="1.5" style="--d:0.18s"/><rect x="145" y="16.5" width="3" height="7" rx="1.5" style="--d:0.27s"/><rect x="151" y="3" width="3" height="34" rx="1.5" style="--d:0.36s"/><rect x="157" y="15.5" width="3" height="9" rx="1.5" style="--d:0.44999999999999996s"/><rect x="163" y="10" width="3" height="20" rx="1.5" style="--d:0.54s"/>
+              </svg>
+            </div>
+            <p class="mt-3 min-h-[96px] rounded-[4px_14px_14px_14px] bg-[#efece2] px-3.5 py-3 text-[15.5px] leading-[1.45]" aria-hidden="true">&ldquo;<span data-brand-greeting>Good morning, Hartwell Reeve Solicitors. I'm Grace, the firm's AI assistant. How can I help you today?</span><span class="brand-caret" data-brand-caret></span>&rdquo;</p>
+            <p class="sr-only" aria-live="polite" data-brand-live></p>
+          </div>
+
+          <dl class="mt-4 space-y-2 text-[13.5px] leading-snug">
+            <div class="flex gap-2 rounded-[10px] bg-white/70 px-3 py-2"><dt class="font-semibold">Voice:</dt><dd data-brand-voice>British English, calm and measured</dd></div>
+            <div class="flex gap-2 rounded-[10px] bg-white/70 px-3 py-2"><dt class="font-semibold">Never:</dt><dd data-brand-never>Gives legal advice</dd></div>
+            <div class="flex gap-2 rounded-[10px] bg-white/70 px-3 py-2"><dt class="font-semibold">Transfers:</dt><dd data-brand-transfer>Existing clients go to their named solicitor</dd></div>
+          </dl>
+
+          <div class="mt-5 flex items-center justify-center gap-6">
+            <button type="button" class="grid h-12 w-12 place-items-center rounded-full bg-[#101828] text-[#f7f6f2] hover:bg-[#1a2437]" data-brand-replay data-track="branding_replay" aria-label="Replay the greeting"><svg class="icon " aria-hidden="true" focusable="false"><use href="#i-replay"/></svg></button>
+            <span class="grid h-12 w-12 place-items-center rounded-full bg-[#a3352b] text-white" aria-hidden="true"><svg class="icon rotate-[135deg]" aria-hidden="true" focusable="false"><use href="#i-phone"/></svg></span>
+          </div>
+        </div>
+      </div>
+      <p class="mt-5 text-center text-[14px] text-band-muted">Illustrative example. The businesses shown are fictional.</p>
+    </div>
   </div>
 </section>
 

diff --git a/app/ai-voice-agents/page.tsx b/app/ai-voice-agents/page.tsx
@@ -73,13 +73,15 @@ const legacy = sectionsOf(legacyMarkup, "va-page"); // kept from the previous pa
 const v4 = sectionsOf(landingV4Markup, "v4l"); // how it works, local cover
 
 /*
-  Running order. The rebuild (docs/ai-voice-agents-cro/) supplies the hero, the problem/solution pair, the
-  definition, the capability cards, the industry tabs and the pricing cards; the client asked for the previous
+  Running order. The rebuild (docs/ai-voice-agents-cro/) supplies the problem/solution pair, the definition,
+  the capability cards, the industry tabs and the pricing cards; the hero is the previous one (client's call); the client asked for the previous
   page's other sections back (20 Oct 2026), so they follow in their old order. The previous page is frozen as
   git tag `oldv2` and route /ai-voice-agents-oldv2.
 */
 const runs: [typeof fresh, string[]][] = [
-  [fresh, ["hero", "why", "what-is", "features"]],
+  [v4, ["top"]],
+  [fresh, ["why", "what-is", "features"]],
+  [legacy, ["branding"]],
   [v4, ["how"]],
   [fresh, ["use-cases"]],
   [legacy, ["industries", "feedback", "why-omh", "compare", "right-fit", "roi-calculator"]],

diff --git a/docs/ai-voice-agents-cro/ai-voice-agents-information-architecture.md b/docs/ai-voice-agents-cro/ai-voice-agents-information-architecture.md
@@ -89,3 +89,9 @@ The client asked for the removed sections back. The page now runs:
 Removed: Related services. Demo CTAs in the restored sections point at `#book-demo-form` instead of
 `/contact`. The restored markup is verbatim in `lib/content/ai-voice-agents-legacy.ts` (old body
 sections) and `lib/content/ai-voice-agents-landing-v4.ts` (how it works, local cover).
+
+**Later the same day:** the previous hero (industry strip and video) is back as section 1 on the
+client's instruction, with its two buttons relabelled "Book a 30-Minute Demo" and "Watch the demo"
+(the second scrolls to the video). The greeting-builder band returned to its old slot after the
+capability cards. "What is an AI voice agent?" keeps the rebuilt definition-plus-walkthrough layout,
+now with numbered gold steps on a sand panel.

diff --git a/docs/ai-voice-agents-cro/ai-voice-agents-qa-report.md b/docs/ai-voice-agents-cro/ai-voice-agents-qa-report.md
@@ -214,3 +214,6 @@ Checked working: industry filter chips (Health shows 2 cards), fit checker ("1 o
 one answer), FAQ search ("Showing 2 of 15 questions" for "GDPR"), lead-flow diagram present, ROI
 iframe fitted to 2,012px, pricing badge and facts tiles, demo CTAs → `#book-demo-form`, Related
 services gone. The `after/` captures were retaken.
+Later: the previous hero and the greeting-builder band were restored; 17 sections, 24,645px at
+1440 and 45,517px at 390; marquee, video facade and greeting builder initialise; `tsc`/`eslint`
+clean; captures retaken. The hero video still uses the placeholder YouTube id (see §10).
